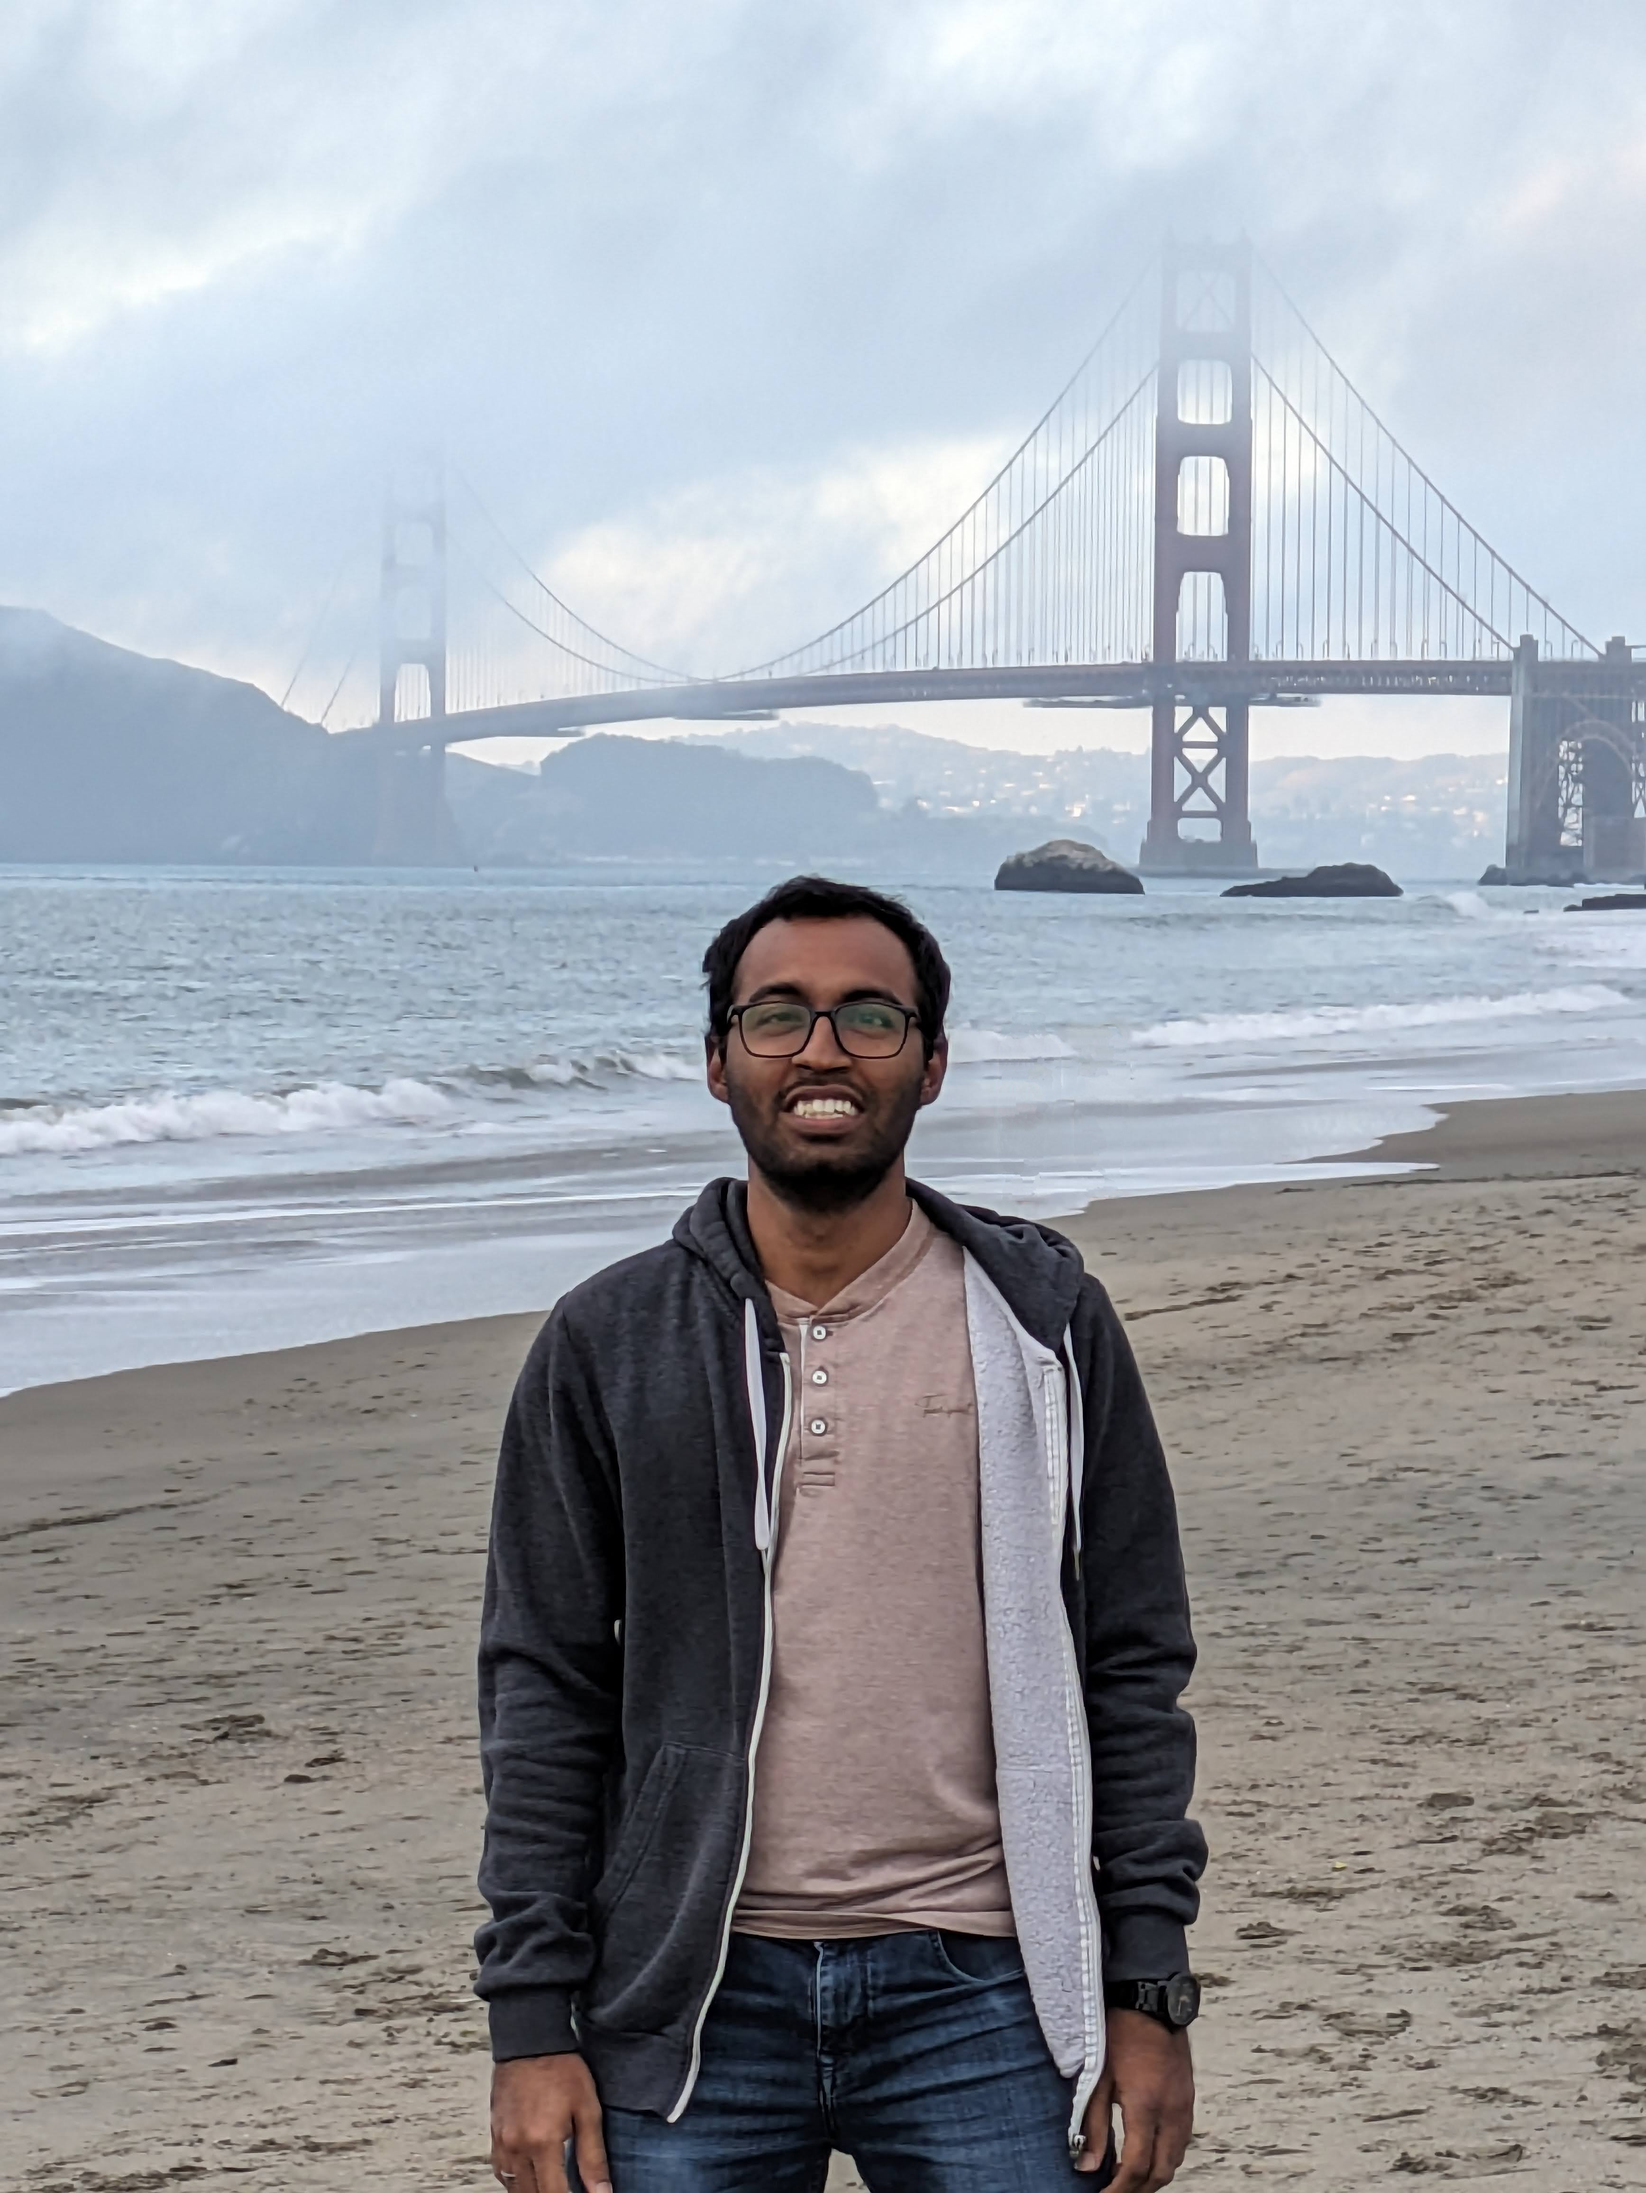
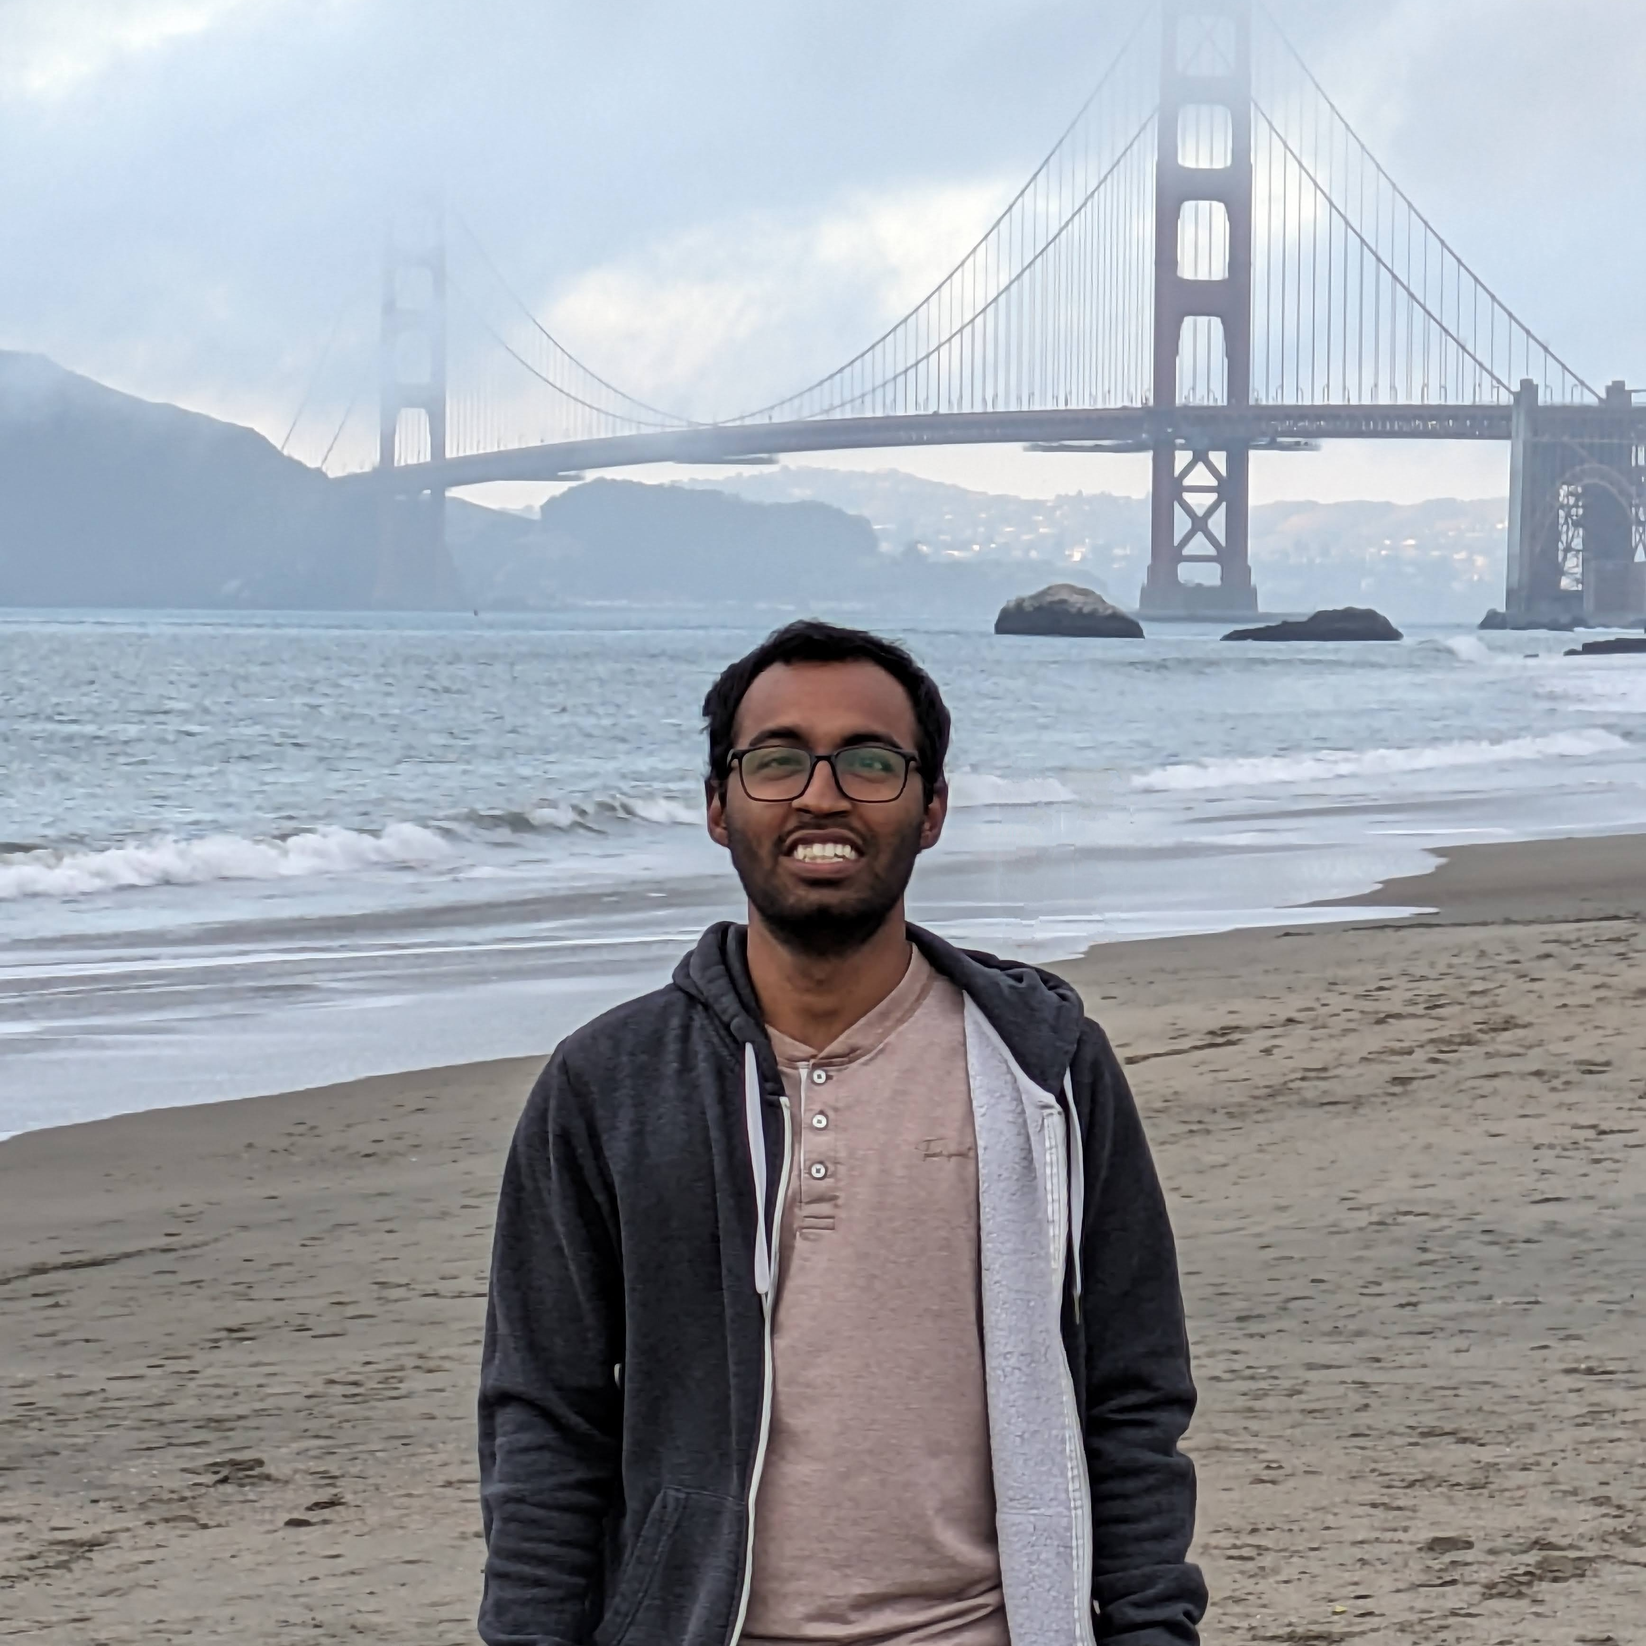
added pic with correct aspect ratio

diff --git a/index.html b/index.html
@@ -72,7 +72,7 @@
     <div class="row">
 
     <div class="image">
-        <img draggable="false" class="tilt" src="./assets/images/profile2.jpg" alt="">
+        <img draggable="false" class="tilt" src="./assets/images/mypic2.jpg" alt="">
     </div>
     <div class="content">
         <h3>I'm Jigar</h3>
